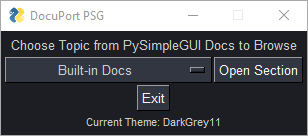
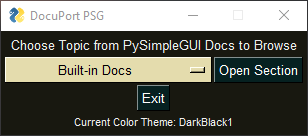
DocuPort PSG Update > v2.2.1b -> v2.3.1b
---

GUI Changes:

- Lines 124-128 refactored with the following changes:
    - Remove unnecessary call to keys() (remove-dict-keys)
    - Replace multiple comparisons of same variable with in operator (merge-comparisons)
- Implemented second dynamic text-change upon opening a web-page.
- Changed color theme text.

---

CLI Version Changes:

- Fixed bug that displayed incorrect number of potential choices.
- Formatting changes.

---

Other:

- Expanded function in-line documentation.
- Added better text-formatting to README (italics, bolds where necessary).
- Various small README text adjustments.
- Updated screenshots in README.

Changed region(s): [[0.0, 0.0, 1.0, 1.0], [0.2338, 0.8529, 0.7597, 0.9412]]

diff --git a/src/DocuPort_PSG_CLI.py b/src/DocuPort_PSG_CLI.py
@@ -235,5 +235,5 @@ while True:
         ex(0)
     else:
         inputCount = 0
-        print('\n- ERROR: -\n> Must Enter an Integer between 1 and 23.\n')
+        print('\n- ERROR: -\n> Must Enter an Integer between 1 and 22.\n')
         s(1)

diff --git a/README.md b/README.md
@@ -3,9 +3,9 @@
 ---
 
 > - _A PySimpleGUI Online Documentation Portal_
-> - v2.2.0-Beta
+> - v2.3.1-Beta
 
-[PySimpleGUI](https://pysimplegui.readthedocs.io/en/latest/) is an _excellent_ framework for building GUIs quickly, and with ease. Unfortunately, PSG doesn't have any _official_ offline documentation that can be easily downloaded. Instead, the documentation is hosted _online_, where it is changed and updated quite frequently - which is part of the reason the creator maintains the documentation online only.
+[PySimpleGUI](https://pysimplegui.readthedocs.io/en/latest/) is an _excellent_ framework for building GUIs quickly, and with ease. Unfortunately, **_PSG_** doesn't have any _official_ offline documentation that can be easily downloaded. Instead, the documentation is hosted _online_, where it is changed and updated quite frequently - which is part of the reason the creator maintains the documentation online only.
 
 As a result, users must go online anytime the documentation is needed, which is rather often as stated by the dev(s) themselves. So I decided to create a simple application that can
 take users to specific areas of the online documentation quickly, and with the click of a
@@ -13,29 +13,30 @@ button. Thus, out of my own laziness and disdain for digging through webpages, *
 
 ---
 
-## How to use DocuPort PSG - **GUI**
+## How to use DocuPort PSG - **GUI Version**
 
 ---
 
-- Using the application is about as simple can be:
+- _Using the application is about as simple can be:_
 
   - Simply open the application, and choose a section to browse.
     - _The color scheme of the window will be different each time the window is opened._
   - Click on the desired section, and the app will open the documentation in your default browser automatically.
-    - You can open as many pages/chapters as you\'d like, and the app will remain open.
+    - You can open as many pages/chapters as you wish, and the app will remain open.
+  - ***DocuPort PSG*** is always shown on top of other open windows to prevent the need to continuously minimize/maximize/re-size/close your browser window when researching through _multiple_ sections.
   - To exit or close the app, simply click the "X" at the top of the screen, or the "Exit" button at the bottom of the window.
-  - That's it!
+  - ***That's it!***
 
     - ![DocuPort PSG](DP_PSG_screenshot.png)
     - ![DocuPort PSG](DP_PSG_screenshot2.png)
 
 ---
 
-## How to use DocuPort PSG - **CLI**
+## How to use DocuPort PSG - **CLI Version**
 
 ---
 
-> _Introduced with v2.0.1 update_
+> _Introduced in v2.0.1-Beta update_
 
 - The command-line-interface version of the application is entirely self explanatory through on-screen directions.
 - Simply follow the instructions displayed on screen, and you'll be fine!
